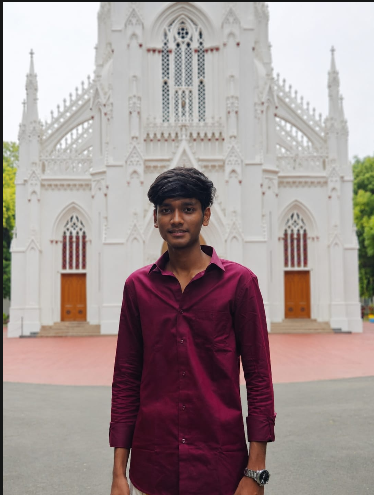
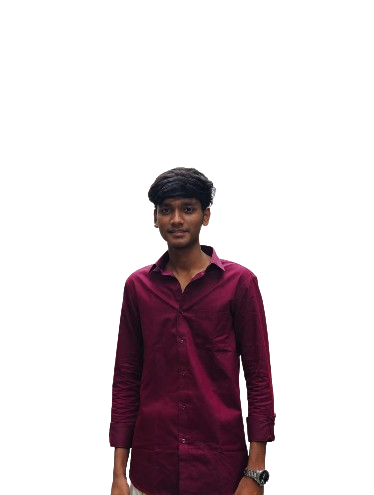
Hero section update -1

diff --git a/src/components/Hero.tsx b/src/components/Hero.tsx
@@ -63,10 +63,11 @@ export default function Hero() {
           {/* Name Header */}
           <motion.h1
             variants={itemVariants}
-            className="text-5xl md:text-7xl font-extrabold tracking-tight mb-4 text-white"
+            className="text-6xl md:text-8xl font-extrabold tracking-tight mb-4 leading-none"
           >
-            <span className="bg-gradient-to-r from-white via-slate-100 to-slate-400 bg-clip-text text-transparent">
-              Meldan Roy
+            <span className="text-accent">Meldan</span>{" "}
+            <span className="bg-gradient-to-r from-red-600 via-rose-500 to-amber-500 bg-clip-text text-transparent">
+              Roy
             </span>
           </motion.h1>
 
@@ -143,32 +144,36 @@ export default function Hero() {
 
         {/* Hero Photo (5 cols on lg) */}
         <motion.div
-          initial={{ opacity: 0, scale: 0.8 }}
-          animate={{ opacity: 1, scale: 1 }}
-          transition={{ duration: 0.8, type: "spring", bounce: 0.25, delay: 0.3 }}
+          initial={{ opacity: 0, x: 50, scale: 0.9 }}
+          animate={{ opacity: 1, x: 0, scale: 1 }}
+          transition={{ duration: 0.8, type: "spring", bounce: 0.2, delay: 0.3 }}
           className="lg:col-span-5 flex justify-center items-center"
         >
-          <div className="relative w-[300px] h-[300px] md:w-[380px] md:h-[380px]">
+          <div className="relative w-[320px] h-[320px] md:w-[420px] md:h-[420px] flex items-center justify-center">
             {/* Ambient background glow behind picture */}
-            <div className="absolute inset-0 bg-gradient-to-tr from-primary to-accent rounded-full opacity-30 blur-2xl animate-pulse" />
+            <div className="absolute w-[80%] h-[80%] bg-gradient-to-tr from-primary/20 to-accent/20 rounded-full blur-3xl pointer-events-none" />
             
             {/* Animated rotating accent border rings */}
-            <div className="absolute -inset-3 rounded-full border border-dashed border-primary/40 animate-[spin_40s_linear_infinite]" />
-            <div className="absolute -inset-6 rounded-full border border-dotted border-accent/30 animate-[spin_60s_linear_infinite_reverse]" />
+            <div className="absolute w-[75%] h-[75%] rounded-full border border-dashed border-primary/30 animate-[spin_40s_linear_infinite]" />
+            <div className="absolute w-[85%] h-[85%] rounded-full border border-dotted border-accent/20 animate-[spin_60s_linear_infinite_reverse]" />
+            
+            {/* Animated solid background circle */}
+            <div className="absolute w-[70%] h-[70%] bg-background/80 border border-slate-900 rounded-full shadow-[0_0_30px_rgba(153,27,27,0.25)]" />
 
-            {/* Profile Image with animated blob container */}
+            {/* Profile Image with animated floating container (no overflow-hidden, no solid bg, no border) */}
             <motion.div 
-              animate={{ y: [0, -10, 0] }}
-              transition={{ repeat: Infinity, duration: 6, ease: "easeInOut" }}
-              className="relative w-full h-full overflow-hidden border-2 border-primary/50 animate-blobby glow-primary flex items-center justify-center bg-slate-900"
+              animate={{ y: [0, -12, 0] }}
+              transition={{ repeat: Infinity, duration: 5, ease: "easeInOut" }}
+              className="relative z-10 drop-shadow-[0_20px_35px_rgba(139,92,246,0.35)] flex items-center justify-center w-full h-full"
             >
               <Image
                 src="/Profile.png"
                 alt="Meldan Roy"
-                fill
+                width={380}
+                height={380}
                 priority
-                className="object-cover object-center scale-105 transition-transform duration-500 hover:scale-110"
-                sizes="(max-width: 768px) 300px, 380px"
+                className="object-contain object-bottom scale-100 transition-transform duration-500 hover:scale-105"
+                style={{ width: "auto", height: "auto" }}
               />
             </motion.div>
           </div>

diff --git a/src/components/Contact.tsx b/src/components/Contact.tsx
@@ -61,7 +61,7 @@ export default function Contact() {
   };
 
   return (
-    <section id="contact" className="py-24 relative overflow-hidden bg-slate-950">
+    <section id="contact" className="py-24 relative overflow-hidden bg-background">
       {/* Background decoration */}
       <div className="absolute top-1/2 left-1/2 -translate-x-1/2 -translate-y-1/2 w-[350px] h-[350px] bg-primary/15 rounded-full blur-[100px] pointer-events-none" />
 
@@ -206,7 +206,7 @@ export default function Contact() {
                     value={formData.name}
                     onChange={handleChange}
                     placeholder="Enter your name"
-                    className={`w-full bg-slate-950 border rounded-xl px-4 py-3.5 text-sm text-white focus:outline-none focus:ring-1 focus:ring-primary transition-all placeholder:text-slate-600 ${
+                    className={`w-full bg-background border rounded-xl px-4 py-3.5 text-sm text-white focus:outline-none focus:ring-1 focus:ring-primary transition-all placeholder:text-slate-600 ${
                       errors.name ? "border-red-500/50" : "border-slate-800/80 focus:border-primary"
                     }`}
                   />
@@ -227,7 +227,7 @@ export default function Contact() {
                     value={formData.email}
                     onChange={handleChange}
                     placeholder="Enter your email"
-                    className={`w-full bg-slate-950 border rounded-xl px-4 py-3.5 text-sm text-white focus:outline-none focus:ring-1 focus:ring-primary transition-all placeholder:text-slate-600 ${
+                    className={`w-full bg-background border rounded-xl px-4 py-3.5 text-sm text-white focus:outline-none focus:ring-1 focus:ring-primary transition-all placeholder:text-slate-600 ${
                       errors.email ? "border-red-500/50" : "border-slate-800/80 focus:border-primary"
                     }`}
                   />
@@ -248,7 +248,7 @@ export default function Contact() {
                     value={formData.message}
                     onChange={handleChange}
                     placeholder="Describe your idea or request..."
-                    className={`w-full bg-slate-950 border rounded-xl px-4 py-3.5 text-sm text-white focus:outline-none focus:ring-1 focus:ring-primary transition-all resize-none placeholder:text-slate-600 ${
+                    className={`w-full bg-background border rounded-xl px-4 py-3.5 text-sm text-white focus:outline-none focus:ring-1 focus:ring-primary transition-all resize-none placeholder:text-slate-600 ${
                       errors.message ? "border-red-500/50" : "border-slate-800/80 focus:border-primary"
                     }`}
                   />
@@ -285,7 +285,7 @@ export default function Contact() {
                     initial={{ opacity: 0 }}
                     animate={{ opacity: 1 }}
                     exit={{ opacity: 0 }}
-                    className="absolute inset-0 bg-slate-950/95 backdrop-blur-sm rounded-2xl flex flex-col items-center justify-center text-center p-6 z-20"
+                    className="absolute inset-0 bg-background/95 backdrop-blur-sm rounded-2xl flex flex-col items-center justify-center text-center p-6 z-20"
                   >
                     <motion.div
                       initial={{ scale: 0.7, opacity: 0 }}

diff --git a/src/app/globals.css b/src/app/globals.css
@@ -1,12 +1,12 @@
 @import "tailwindcss";
 
 :root {
-  --background: #030712; /* slate-950 */
-  --foreground: #f9fafb; /* slate-50 */
-  --primary: #8b5cf6; /* violet-500 */
-  --primary-glow: rgba(139, 92, 246, 0.15);
-  --accent: #14b8a6; /* teal-500 */
-  --accent-glow: rgba(20, 184, 166, 0.15);
+  --background: #0b0102; /* Extremely dark maroon / pitch black-red */
+  --foreground: #fef2f2; /* Soft warm white */
+  --primary: #991b1b; /* Rich maroon red */
+  --primary-glow: rgba(153, 27, 27, 0.2);
+  --accent: #f59e0b; /* Vibrant amber/gold contrast */
+  --accent-glow: rgba(245, 158, 11, 0.15);
 }
 
 @theme {
@@ -36,54 +36,54 @@ body {
   width: 8px;
 }
 ::-webkit-scrollbar-track {
-  background: #030712;
+  background: #0b0102;
 }
 ::-webkit-scrollbar-thumb {
-  background: #1f2937;
+  background: #270509;
   border-radius: 4px;
 }
 ::-webkit-scrollbar-thumb:hover {
-  background: #374151;
+  background: #4c0519;
 }
 
 /* Selection */
 ::selection {
-  background: rgba(139, 92, 246, 0.3);
-  color: #f9fafb;
+  background: rgba(153, 27, 27, 0.45);
+  color: #fef2f2;
 }
 
 /* Glassmorphism utility */
 .glass-panel {
-  background: rgba(15, 23, 42, 0.65);
+  background: rgba(15, 2, 4, 0.7);
   backdrop-filter: blur(12px);
   -webkit-backdrop-filter: blur(12px);
-  border: 1px solid rgba(255, 255, 255, 0.08);
+  border: 1px solid rgba(245, 158, 11, 0.08);
 }
 
 .glass-panel-hover {
   transition: all 0.3s cubic-bezier(0.4, 0, 0.2, 1);
 }
 .glass-panel-hover:hover {
-  background: rgba(15, 23, 42, 0.8);
-  border-color: rgba(139, 92, 246, 0.3);
-  box-shadow: 0 10px 30px -10px rgba(139, 92, 246, 0.2);
+  background: rgba(20, 2, 5, 0.85);
+  border-color: rgba(245, 158, 11, 0.3);
+  box-shadow: 0 10px 30px -10px rgba(153, 27, 27, 0.3);
 }
 
 /* Grid background utility */
 .bg-grid-pattern {
   background-size: 40px 40px;
   background-image: 
-    linear-gradient(to right, rgba(255, 255, 255, 0.02) 1px, transparent 1px),
-    linear-gradient(to bottom, rgba(255, 255, 255, 0.02) 1px, transparent 1px);
+    linear-gradient(to right, rgba(255, 255, 255, 0.015) 1px, transparent 1px),
+    linear-gradient(to bottom, rgba(255, 255, 255, 0.015) 1px, transparent 1px);
 }
 
 /* Glow effects */
 .glow-primary {
-  box-shadow: 0 0 40px -5px rgba(139, 92, 246, 0.3);
+  box-shadow: 0 0 40px -5px rgba(153, 27, 27, 0.45);
 }
 
 .glow-accent {
-  box-shadow: 0 0 40px -5px rgba(20, 184, 166, 0.3);
+  box-shadow: 0 0 40px -5px rgba(245, 158, 11, 0.35);
 }
 
 /* Blob shape keyframes for profile */

diff --git a/src/components/Skills.tsx b/src/components/Skills.tsx
@@ -59,7 +59,7 @@ export default function Skills() {
   const currentCategory = skillCategories.find((cat) => cat.id === activeTab) || skillCategories[0];
 
   return (
-    <section id="skills" className="py-24 relative overflow-hidden bg-slate-950">
+    <section id="skills" className="py-24 relative overflow-hidden bg-background">
       {/* Background glow decoration */}
       <div className="absolute bottom-0 right-0 w-[300px] h-[300px] bg-accent/10 rounded-full blur-[80px] pointer-events-none" />
 
@@ -109,8 +109,8 @@ export default function Skills() {
                   onClick={() => setActiveTab(category.id)}
                   className={`flex items-center gap-3 px-5 py-4 rounded-xl border text-sm font-semibold transition-all duration-300 w-full text-left cursor-pointer ${
                     activeTab === category.id
-                      ? "bg-slate-900 text-white border-accent shadow-[0_4px_20px_-5px_rgba(20,184,166,0.25)]"
-                      : "bg-slate-950 text-slate-400 border-slate-900 hover:border-slate-800 hover:text-slate-200"
+                      ? "bg-slate-900 text-white border-accent shadow-[0_4px_20px_-5px_rgba(245,158,11,0.25)]"
+                      : "bg-background text-slate-400 border-slate-900 hover:border-slate-800 hover:text-slate-200"
                   }`}
                 >
                   <span className={`${activeTab === category.id ? "text-accent" : "text-slate-500"}`}>
@@ -155,7 +155,7 @@ export default function Skills() {
                       </div>
 
                       {/* Animated Progress bar container */}
-                      <div className="w-full h-1.5 bg-slate-950 rounded-full overflow-hidden mb-3">
+                      <div className="w-full h-1.5 bg-background rounded-full overflow-hidden mb-3">
                         <motion.div
                           initial={{ width: 0 }}
                           animate={{ width: `${skill.level}%` }}

diff --git a/src/components/About.tsx b/src/components/About.tsx
@@ -38,7 +38,7 @@ export default function About() {
   };
 
   return (
-    <section id="about" className="py-24 relative overflow-hidden bg-slate-950/20">
+    <section id="about" className="py-24 relative overflow-hidden bg-background/20">
       {/* Background radial accent glow */}
       <div className="absolute top-1/2 left-0 -translate-y-1/2 w-[300px] h-[300px] bg-primary/10 rounded-full blur-[80px] pointer-events-none" />
 
@@ -150,7 +150,7 @@ export default function About() {
               {timeline.map((item, idx) => (
                 <div key={idx} className="relative group">
                   {/* Timeline point indicator */}
-                  <div className="absolute -left-[41px] top-1.5 w-6 h-6 rounded-full bg-slate-950 border-2 border-primary group-hover:border-accent transition-colors duration-300 flex items-center justify-center">
+                  <div className="absolute -left-[41px] top-1.5 w-6 h-6 rounded-full bg-background border-2 border-primary group-hover:border-accent transition-colors duration-300 flex items-center justify-center">
                     <div className="w-2.5 h-2.5 rounded-full bg-primary group-hover:bg-accent transition-colors duration-300" />
                   </div>
 

diff --git a/src/components/Header.tsx b/src/components/Header.tsx
@@ -61,7 +61,7 @@ export default function Header() {
       transition={{ duration: 0.5 }}
       className={`fixed top-0 left-0 right-0 z-50 transition-all duration-300 ${
         scrolled
-          ? "py-4 bg-slate-950/75 backdrop-blur-md border-b border-slate-900"
+          ? "py-4 bg-background/75 backdrop-blur-md border-b border-slate-900"
           : "py-6 bg-transparent"
       }`}
     >
@@ -130,7 +130,7 @@ export default function Header() {
             animate={{ opacity: 1, height: "auto" }}
             exit={{ opacity: 0, height: 0 }}
             transition={{ duration: 0.3 }}
-            className="md:hidden border-b border-slate-900 bg-slate-950"
+            className="md:hidden border-b border-slate-900 bg-background"
           >
             <div className="px-6 py-8 flex flex-col gap-4">
               {navItems.map((item) => (

diff --git a/src/components/Footer.tsx b/src/components/Footer.tsx
@@ -11,7 +11,7 @@ export default function Footer() {
   };
 
   return (
-    <footer className="py-12 border-t border-slate-900 bg-slate-950/80 backdrop-blur-sm relative overflow-hidden">
+    <footer className="py-12 border-t border-slate-900 bg-background/80 backdrop-blur-sm relative overflow-hidden">
       <div className="max-w-7xl mx-auto px-6 flex flex-col md:flex-row justify-between items-center gap-6 relative z-10">
         
         {/* Left column */}

diff --git a/src/components/Projects.tsx b/src/components/Projects.tsx
@@ -62,7 +62,7 @@ export default function Projects() {
   };
 
   return (
-    <section id="projects" className="py-24 relative overflow-hidden bg-slate-950/20">
+    <section id="projects" className="py-24 relative overflow-hidden bg-background/20">
       {/* Background radial accent glow */}
       <div className="absolute top-1/4 left-1/3 w-[300px] h-[300px] bg-primary/10 rounded-full blur-[90px] pointer-events-none" />
 
